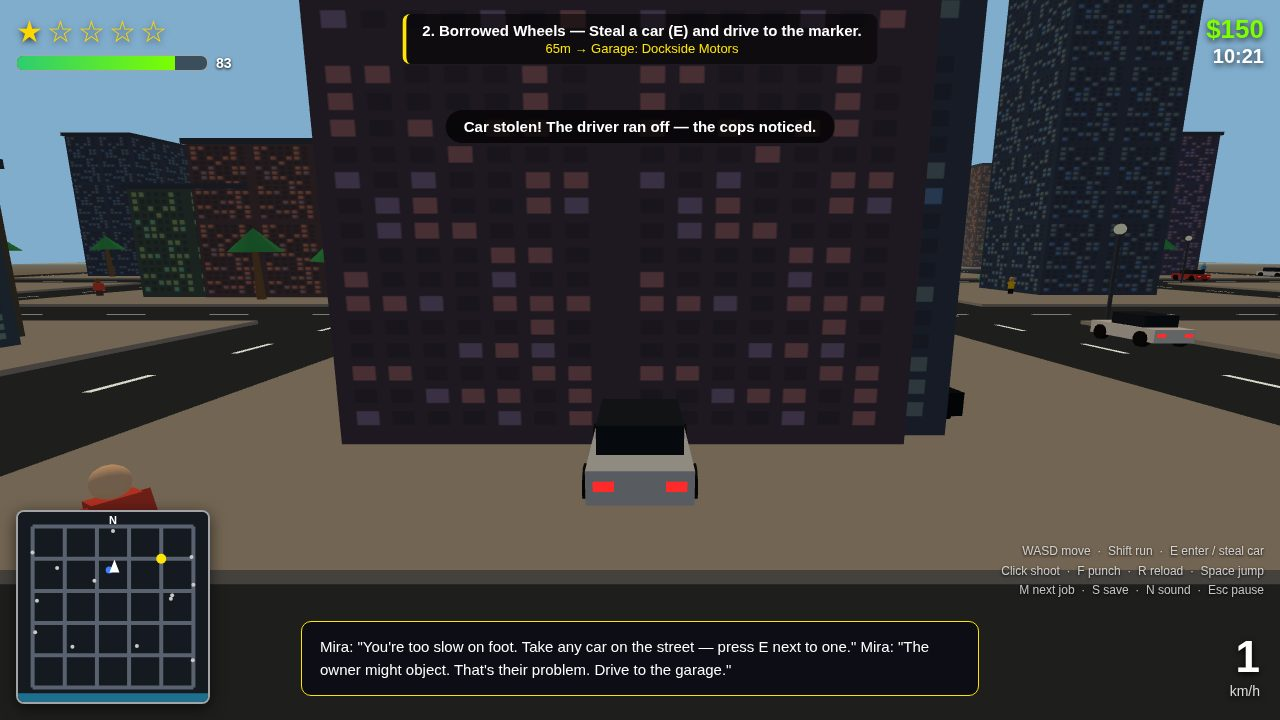
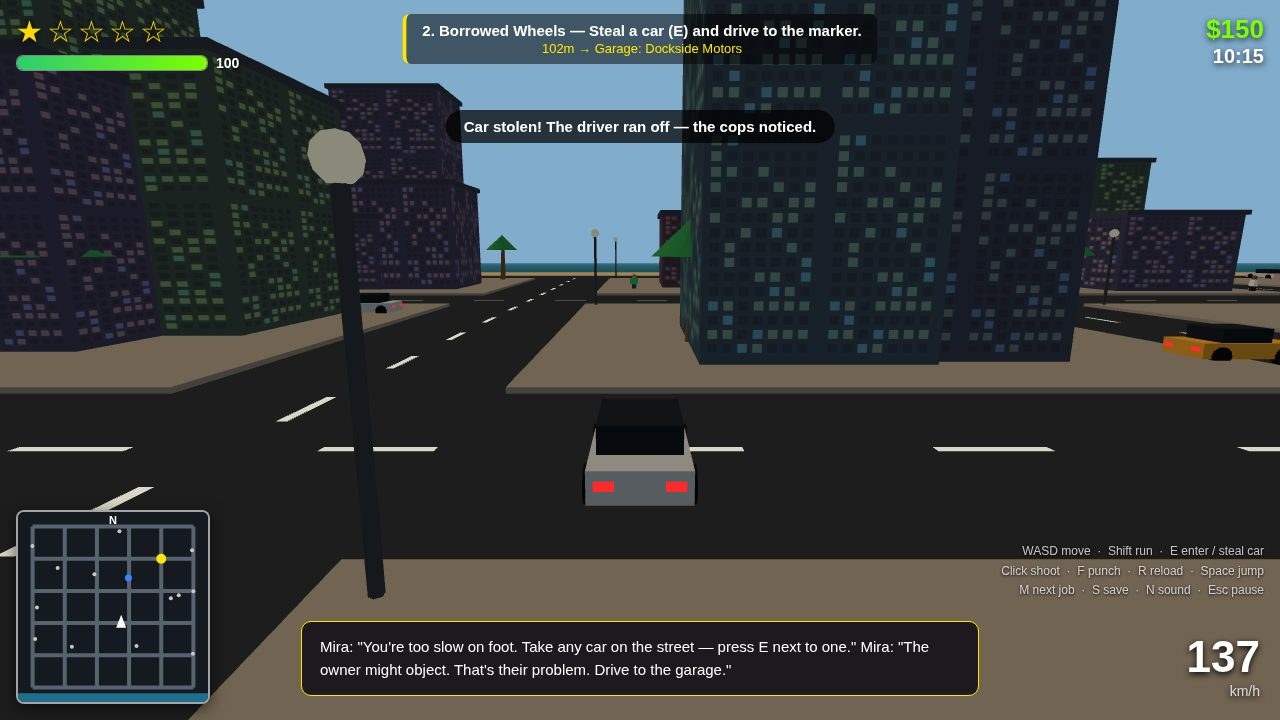
Fix fixed-step loop, save bug, action-repeat bug; final screenshots

diff --git a/game/src/game.js b/game/src/game.js
@@ -873,22 +873,43 @@ export function createGame(scene, rng, audio, hud) {
     state.player.z = z;
     playerGroup.position.set(x, 0, z);
   }
-  // Put the player's car on the centre of the nearest road, heading along it, so a
-  // staged drive starts cleanly instead of scraping a building corner.
-  function stageAlignCarToRoad() {
+  // Pull the nearest police interceptor to a spot ahead of the player car, facing it, so
+  // a staged chase frame shows the police in the picture, not only on the minimap.
+  function stagePoliceAhead() {
+    if (state.policeCars.length === 0 || !state.playerCar) return;
+    const car = state.playerCar;
+    let best = state.policeCars[0];
+    let bestDist = Infinity;
+    for (const pc of state.policeCars) {
+      const d = Math.hypot(pc.x - car.x, pc.z - car.z);
+      if (d < bestDist) {
+        bestDist = d;
+        best = pc;
+      }
+    }
+    const fx = Math.sin(car.heading);
+    const fz = Math.cos(car.heading);
+    // Directly ahead on the same lane, facing the player head-on.
+    best.x = car.x + fx * 22;
+    best.z = car.z + fz * 22;
+    best.heading = Math.atan2(car.x - best.x, car.z - best.z);
+    best.speed = 12;
+    best.mesh.position.set(best.x, 0, best.z);
+    best.mesh.rotation.y = best.heading;
+  }
+  // Place the player's car at a chosen road spot, heading along the road.
+  function stagePlaceCar(x, z, heading) {
     const car = state.playerCar;
     if (!car) return;
-    const near = nearestRoadPoint(car.x, car.z);
-    const alongZ = Math.abs(near.x - car.x) < Math.abs(near.z - car.z);
-    car.x = near.x;
-    car.z = near.z;
-    car.heading = alongZ ? 0 : Math.PI / 2;
+    car.x = x;
+    car.z = z;
+    car.heading = heading;
     car.speed = 0;
-    car.mesh.position.set(car.x, 0, car.z);
-    car.mesh.rotation.y = car.heading;
-    state.player.x = car.x;
-    state.player.z = car.z;
-    state.player.heading = car.heading;
+    car.mesh.position.set(x, 0, z);
+    car.mesh.rotation.y = heading;
+    state.player.x = x;
+    state.player.z = z;
+    state.player.heading = heading;
   }
 
   return {
@@ -910,6 +931,7 @@ export function createGame(scene, rng, audio, hud) {
     stageEnterCar,
     stageSetWanted,
     stageTeleport,
-    stageAlignCarToRoad,
+    stagePlaceCar,
+    stagePoliceAhead,
   };
 }

diff --git a/game/src/main.js b/game/src/main.js
@@ -31,6 +31,8 @@ const renderer = createRenderer(canvas);
 const game = createGame(renderer.scene, rng, audio, hud);
 const state = game.state;
 const lamps = game.city.lamps;
+// A handle for play-testing and debugging in the console; the game itself never reads it.
+window.__game = game;
 
 function announce(message) {
   status.textContent = message;
@@ -60,6 +62,8 @@ function runGame() {
   const input = createInput(canvas);
   let screen = 'start';
   let saveData = loadGame();
+  let accumulator = 0;
+  let last = performance.now();
 
   function startNewGame() {
     game.reset();
@@ -122,12 +126,30 @@ function runGame() {
   function frame(now) {
     requestAnimationFrame(frame);
     const actions = handleActions();
-    if (screen !== 'play') return;
-    game.stepPlaying(STEP, input, actions);
-    // The game can end itself (wasted / busted / story done) inside a step.
-    if (state.dead || state.busted || state.storyDone) {
-      screen = state.screen;
+    if (screen !== 'play') {
+      last = now;
+      accumulator = 0;
+      return;
     }
+    // Fixed-step simulation: the world advances in 1/60 s steps no matter the display
+    // rate, so the game plays at the same speed on 60 Hz, 120 Hz and slow machines.
+    accumulator += Math.min((now - last) / 1000, MAX_FRAME);
+    last = now;
+    let guard = 0;
+    // Edge actions (enter, punch, reload) fire once per frame, not once per sub-step.
+    let stepActions = actions;
+    while (accumulator >= STEP && guard < 40) {
+      game.stepPlaying(STEP, input, stepActions);
+      stepActions = 0;
+      accumulator -= STEP;
+      guard += 1;
+      if (state.dead || state.busted || state.storyDone) {
+        screen = state.screen;
+        accumulator = 0;
+        break;
+      }
+    }
+    if (guard >= 40) accumulator = 0;
     renderer.render(state, STEP, lamps);
   }
 

diff --git a/game/src/shots.js b/game/src/shots.js
@@ -7,7 +7,7 @@ import { STEP } from './config.js';
 const SAMPLE = 1 / 30;
 
 /** A fake input that drives forward and steers toward the mission target or the road. */
-function autopilotInput(game, steerTarget) {
+function autopilotInput() {
   return {
     move() {
       return { forward: 1, strafe: 0 };
@@ -33,6 +33,13 @@ function autopilotInput(game, steerTarget) {
   };
 }
 
+/** A fake input that coasts: foot off the pedal, so a chase can catch up. */
+function coastInput() {
+  const input = autopilotInput();
+  input.move = () => ({ forward: 0, strafe: 0 });
+  return input;
+}
+
 function runSteps(game, input, seconds) {
   const actions = 0;
   for (let t = 0; t < seconds; t += STEP) {
@@ -53,18 +60,22 @@ export function stageShot(name, game) {
   if (name === 'drive') {
     game.startMission(1);
     game.stageEnterCar();
-    game.stageAlignCarToRoad();
+    // Start on the central avenue heading north, so the drive stays downtown.
+    game.stagePlaceCar(0, -44, 0);
     game.state.hour = 10;
-    runSteps(game, autopilotInput(game), 3.5);
+    runSteps(game, autopilotInput(), 2.5);
     return { screen: 'play' };
   }
   if (name === 'police') {
     game.startMission(1);
     game.stageEnterCar();
-    game.stageAlignCarToRoad();
+    game.stagePlaceCar(0, -44, 0);
     game.stageSetWanted(3);
     game.state.hour = 19.5;
-    runSteps(game, autopilotInput(game), 4);
+    // Two seconds of driving, then coast: the interceptors catch up and close in.
+    runSteps(game, autopilotInput(), 2);
+    runSteps(game, coastInput(), 2.5);
+    game.stagePoliceAhead();
     return { screen: 'play' };
   }
   if (name === 'mission') {

diff --git a/game/src/save.js b/game/src/save.js
@@ -9,7 +9,7 @@ export function saveGame(state) {
       health: state.player.health,
       missionIndex: state.missionIndex,
       missionsDone: state.missionsDone,
-      position: { x: state.player.position.x, z: state.player.position.z },
+      position: { x: state.player.x, z: state.player.z },
       hour: state.hour,
       ammo: state.player.ammo,
       reserveAmmo: state.player.reserveAmmo,
